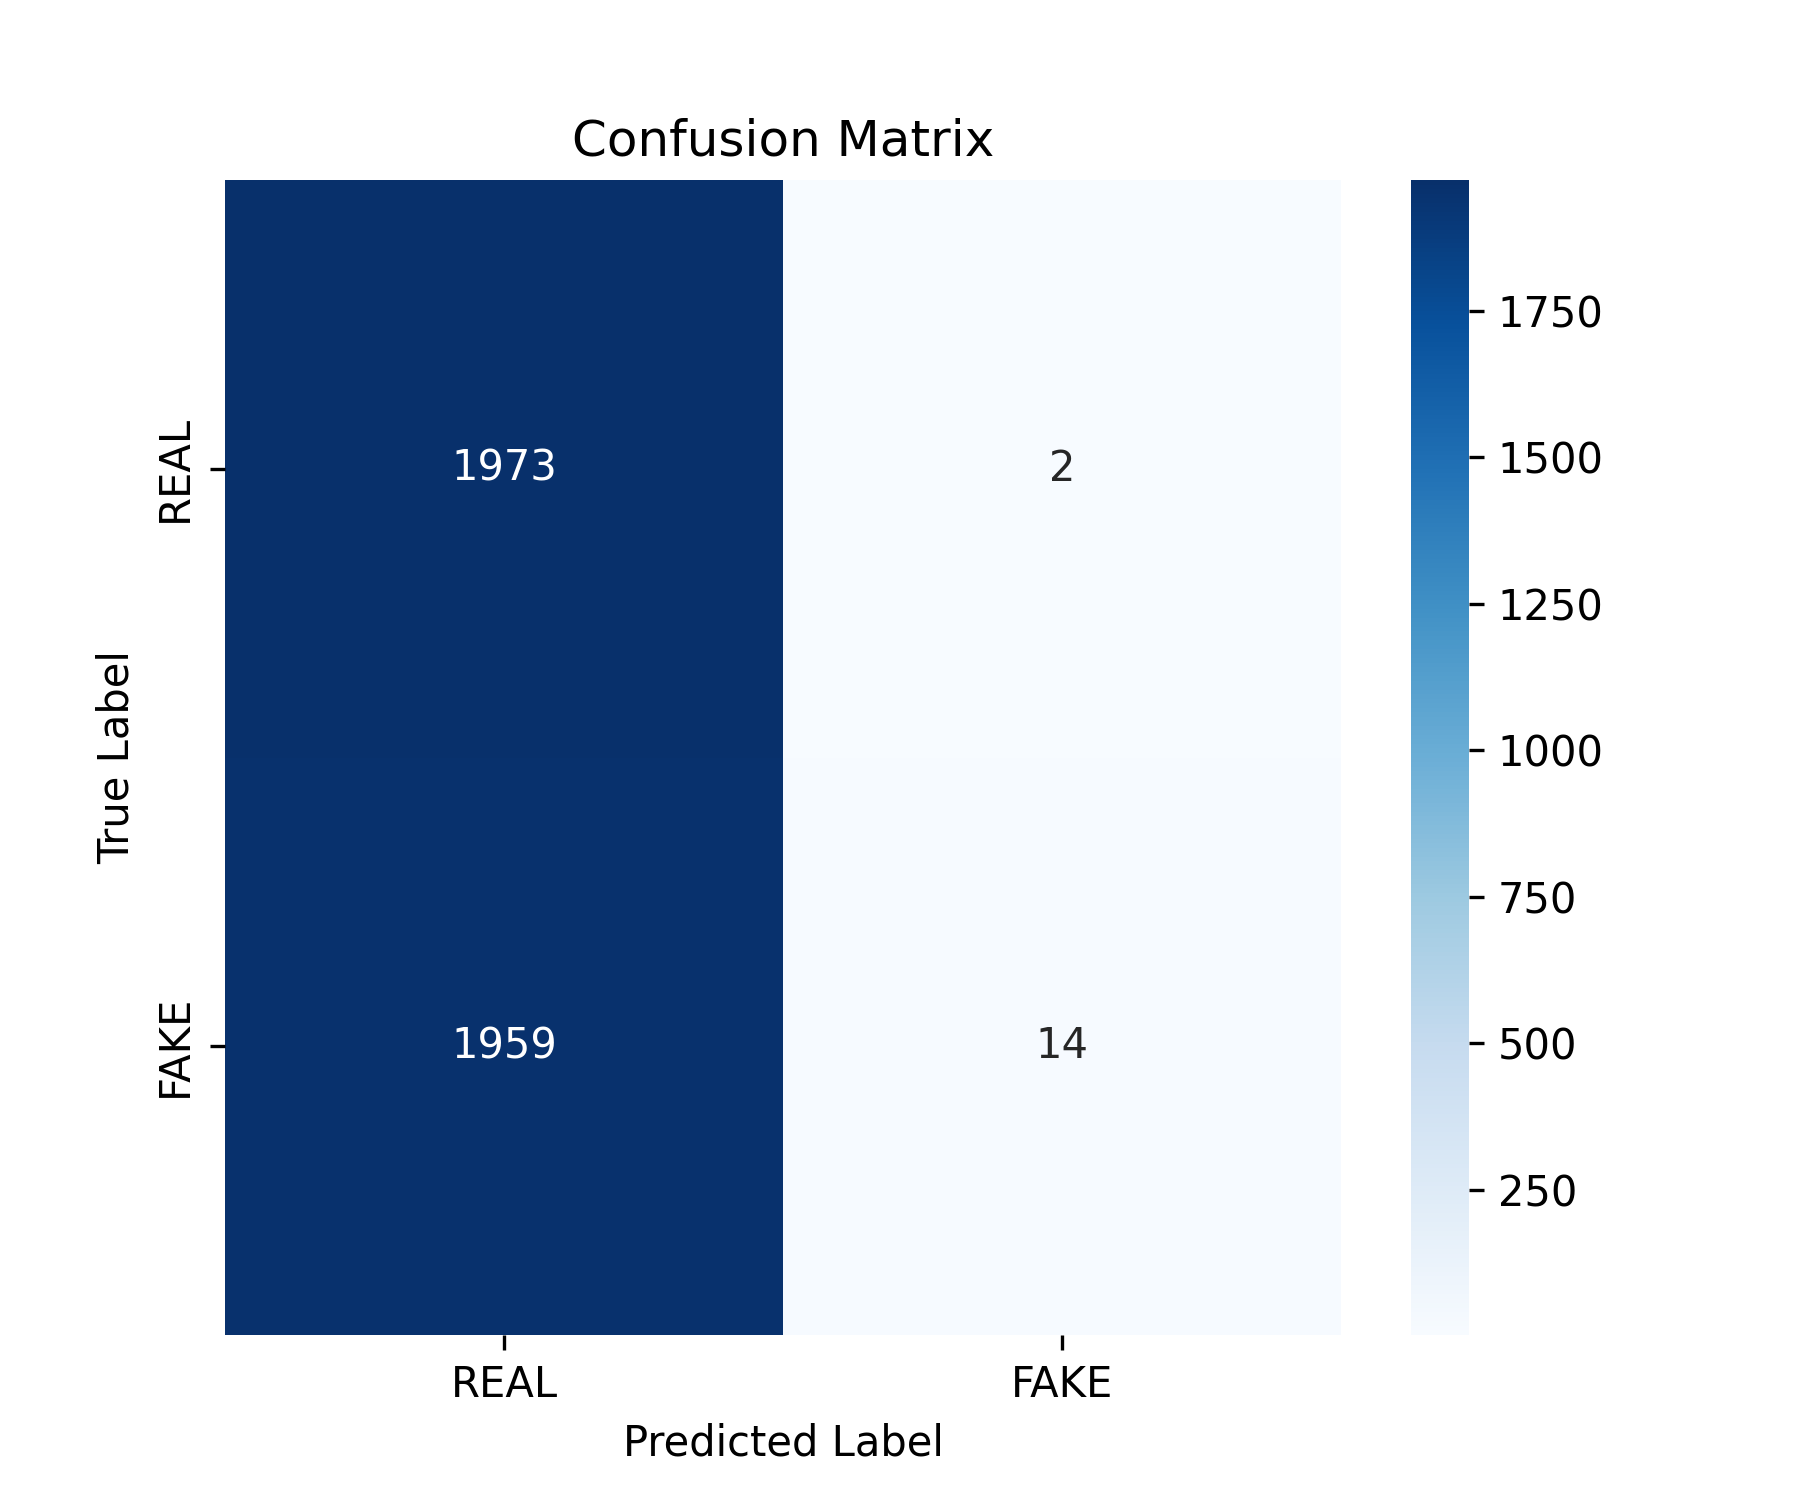
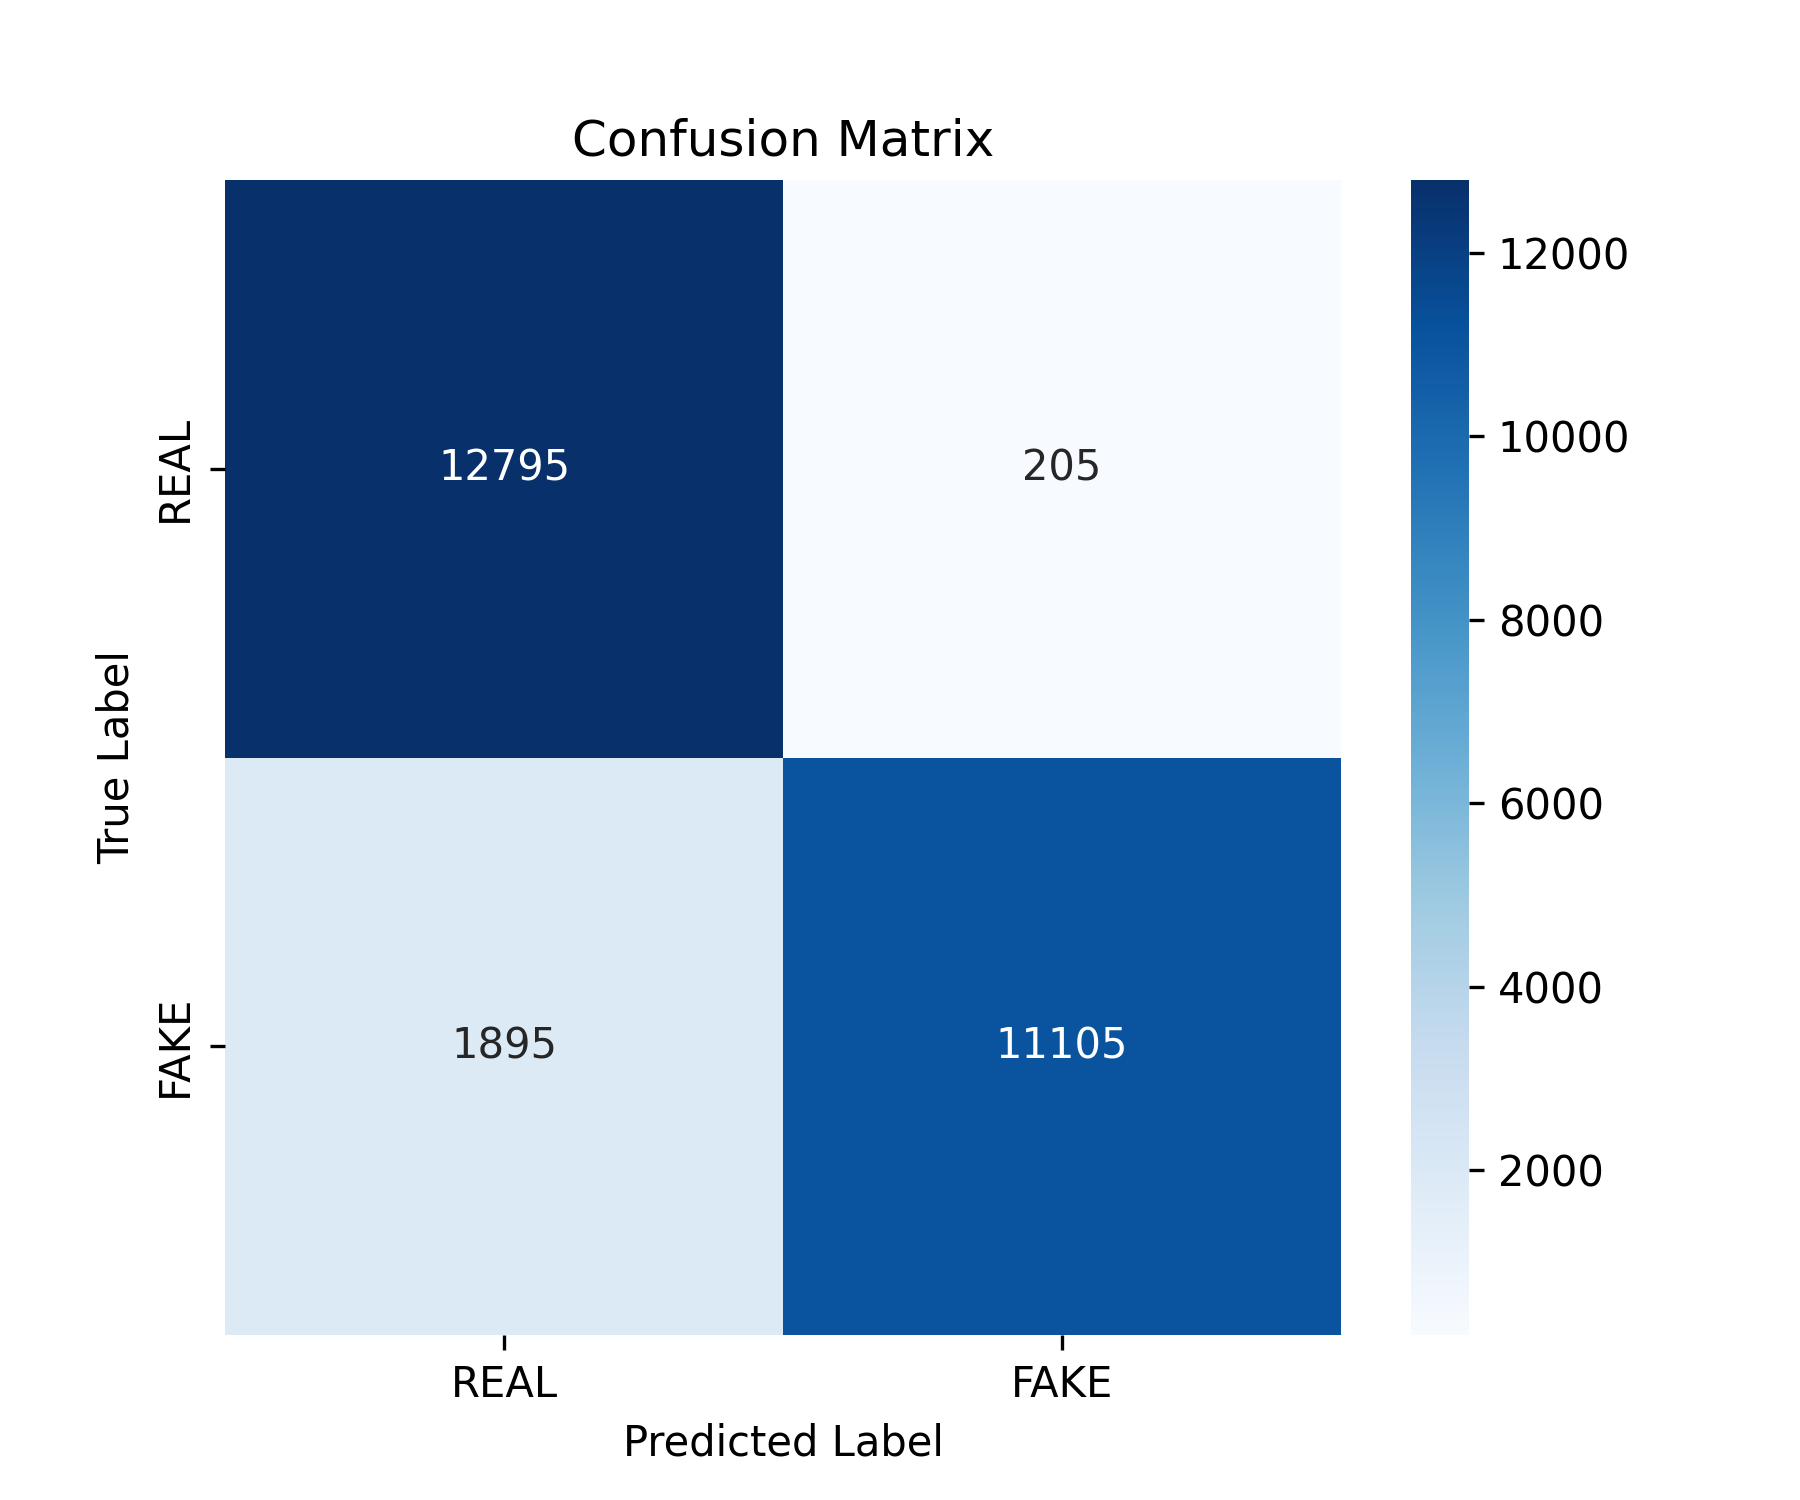
Update configuration and model: change data directory and checkpoint path, implement FFT in model forward pass, and enhance test model with optimizer state loading.

diff --git a/test.py b/test.py
@@ -1,23 +1,122 @@
+# import torch
+# import numpy as np
+# import matplotlib.pyplot as plt
+# import seaborn as sns
+# from sklearn.metrics import (
+#     accuracy_score, precision_score, recall_score, f1_score, 
+#     confusion_matrix, classification_report, roc_auc_score, roc_curve,auc
+# )
+# from config import Config
+# from model import SwinTinyBinary
+# from data_loader import get_dataloaders
+
+# def test_model():
+#     test_loader = get_dataloaders()
+    
+#     # Load the trained model
+#     model = SwinTinyBinary().to(Config.device)
+#     model.load_state_dict(torch.load(Config.checkpoint_path, map_location=Config.device))
+#     model.eval()
+
+#     all_preds = []
+#     all_labels = []
+#     all_probs = []  # Stores probabilities for ROC-AUC calculation
+
+#     with torch.no_grad():
+#         for images, labels in test_loader:
+#             images, labels = images.to(Config.device), labels.to(Config.device)
+#             outputs = model(images)
+#             probs = torch.softmax(outputs, dim=1)[:, 1]  # Get probabilities for the positive class
+#             preds = torch.argmax(outputs, dim=1)
+
+#             all_preds.extend(preds.cpu().numpy())
+#             all_labels.extend(labels.cpu().numpy())
+#             all_probs.extend(probs.cpu().numpy())
+
+#     # Convert lists to NumPy arrays
+#     all_preds = np.array(all_preds)
+#     all_labels = np.array(all_labels)
+#     all_probs = np.array(all_probs)
+
+#     # Compute metrics
+#     accuracy = accuracy_score(all_labels, all_preds)
+#     precision = precision_score(all_labels, all_preds, average="binary")
+#     recall = recall_score(all_labels, all_preds, average="binary")
+#     f1 = f1_score(all_labels, all_preds, average="binary")
+#     roc_auc = roc_auc_score(all_labels, all_probs)
+#     fpr, tpr, _ = roc_curve(all_labels, all_probs)
+#     auc_score = auc(fpr, tpr)
+
+#     print("\nTest Results:")
+#     print(f"Accuracy:  {accuracy:.4f}")
+#     print(f"Precision: {precision:.4f}")
+#     print(f"Recall:    {recall:.4f}")
+#     print(f"F1 Score:  {f1:.4f}")
+#     print(f"ROC-AUC:   {auc_score:.4f}")
+#     print("\nClassification Report:")
+#     print(classification_report(all_labels, all_preds, target_names=["REAL", "FAKE"]))
+
+#     # Confusion Matrix
+#     cm = confusion_matrix(all_labels, all_preds)
+#     plot_confusion_matrix(cm, ["REAL", "FAKE"])
+
+#     # ROC Curve (saved as PNG)
+#     plot_roc_curve(all_labels, all_probs, save_path="roc_curve.png")
+
+# def plot_confusion_matrix(cm, class_names):
+#     plt.figure(figsize=(6, 5))
+#     sns.heatmap(cm, annot=True, fmt="d", cmap="Blues", xticklabels=class_names, yticklabels=class_names)
+#     plt.xlabel("Predicted Label")
+#     plt.ylabel("True Label")
+#     plt.title("Confusion Matrix")
+#     plt.savefig("confusion_matrix.png", dpi=300)
+#     print("Confusion matrix saved as confusion_matrix.png")
+
+# def plot_roc_curve(y_true, y_scores, save_path="roc_curve.png"):
+#     fpr, tpr, _ = roc_curve(y_true, y_scores)
+    
+#     plt.figure(figsize=(6, 5))
+#     plt.plot(fpr, tpr, color='blue', lw=2, label=f'ROC Curve (AUC = {roc_auc_score(y_true, y_scores):.4f})')
+#     plt.plot([0, 1], [0, 1], color='gray', linestyle='--')  # Random guess line
+#     plt.xlabel("False Positive Rate")
+#     plt.ylabel("True Positive Rate")
+#     plt.title("ROC Curve")
+#     plt.legend(loc="lower right")
+#     plt.grid()
+    
+#     # Save the ROC curve as a PNG file
+#     plt.savefig(save_path, dpi=300)
+#     print(f"ROC curve saved as {save_path}")
+
+
+
 import torch
 import numpy as np
 import matplotlib.pyplot as plt
 import seaborn as sns
+import torch.optim as optim
 from sklearn.metrics import (
     accuracy_score, precision_score, recall_score, f1_score, 
-    confusion_matrix, classification_report, roc_auc_score, roc_curve,auc
+    confusion_matrix, classification_report, roc_auc_score, roc_curve
 )
 from config import Config
 from model import SwinTinyBinary
 from data_loader import get_dataloaders
 
 def test_model():
+    # _, _, 
     test_loader = get_dataloaders()
     
     # Load the trained model
     model = SwinTinyBinary().to(Config.device)
-    model.load_state_dict(torch.load(Config.checkpoint_path, map_location=Config.device))
+    optimizer = optim.AdamW(model.parameters(), lr=Config.learning_rate)
+    checkpoint = torch.load(Config.checkpoint_path, map_location=Config.device)
+    model.load_state_dict(checkpoint['model_state_dict'])
+    optimizer.load_state_dict(checkpoint['optimizer_state_dict'])
+    best_val_acc = checkpoint['best_val_acc']
+    start_epoch = checkpoint['epoch']
     model.eval()
-
+        
     all_preds = []
     all_labels = []
     all_probs = []  # Stores probabilities for ROC-AUC calculation
@@ -44,15 +143,13 @@ def test_model():
     recall = recall_score(all_labels, all_preds, average="binary")
     f1 = f1_score(all_labels, all_preds, average="binary")
     roc_auc = roc_auc_score(all_labels, all_probs)
-    fpr, tpr, _ = roc_curve(all_labels, all_probs)
-    auc_score = auc(fpr, tpr)
 
     print("\nTest Results:")
     print(f"Accuracy:  {accuracy:.4f}")
     print(f"Precision: {precision:.4f}")
     print(f"Recall:    {recall:.4f}")
     print(f"F1 Score:  {f1:.4f}")
-    print(f"ROC-AUC:   {auc_score:.4f}")
+    print(f"ROC-AUC:   {roc_auc:.4f}")
     print("\nClassification Report:")
     print(classification_report(all_labels, all_preds, target_names=["REAL", "FAKE"]))
 
@@ -87,4 +184,3 @@ def plot_roc_curve(y_true, y_scores, save_path="roc_curve.png"):
     # Save the ROC curve as a PNG file
     plt.savefig(save_path, dpi=300)
     print(f"ROC curve saved as {save_path}")
-

diff --git a/model.py b/model.py
@@ -1,3 +1,16 @@
+# import torch.nn as nn
+# import timm
+# from config import Config
+
+# class SwinTinyBinary(nn.Module):
+#     def __init__(self):
+#         super(SwinTinyBinary, self).__init__()
+#         self.model = timm.create_model("swin_tiny_patch4_window7_224", pretrained=False, num_classes=Config.num_classes)
+
+#     def forward(self, x):
+#         return self.model(x)
+    
+import torch
 import torch.nn as nn
 import timm
 from config import Config
@@ -8,6 +21,9 @@ class SwinTinyBinary(nn.Module):
         self.model = timm.create_model("swin_tiny_patch4_window7_224", pretrained=False, num_classes=Config.num_classes)
 
     def forward(self, x):
-        return self.model(x)
-    
+        # Compute 2D FFT
+        x_fft = torch.fft.fft2(x, dim=(-2, -1))  # Apply FFT along height and width
+        #x_fft = torch.fft.fftshift(x_fft, dim=(-2, -1))  # Shift zero-frequency component to the center
+        x_mag = torch.abs(x_fft)  # Get magnitude spectrum
 
+        return self.model(x_mag)

diff --git a/config.py b/config.py
@@ -1,11 +1,11 @@
 import torch
 
 class Config:
-    data_dir = "./deepfake-eval" 
+    data_dir = "./gamma1.2" 
   # Update this
     batch_size = 32
     num_epochs = 20
     learning_rate = 1e-4
-    checkpoint_path = "./models/best_swin_tiny_scratch_raw.pth"
+    checkpoint_path = "./models/Best Swin Tiny FFT.pth"
     num_classes = 2  # Binary classification
     device = torch.device("mps")
